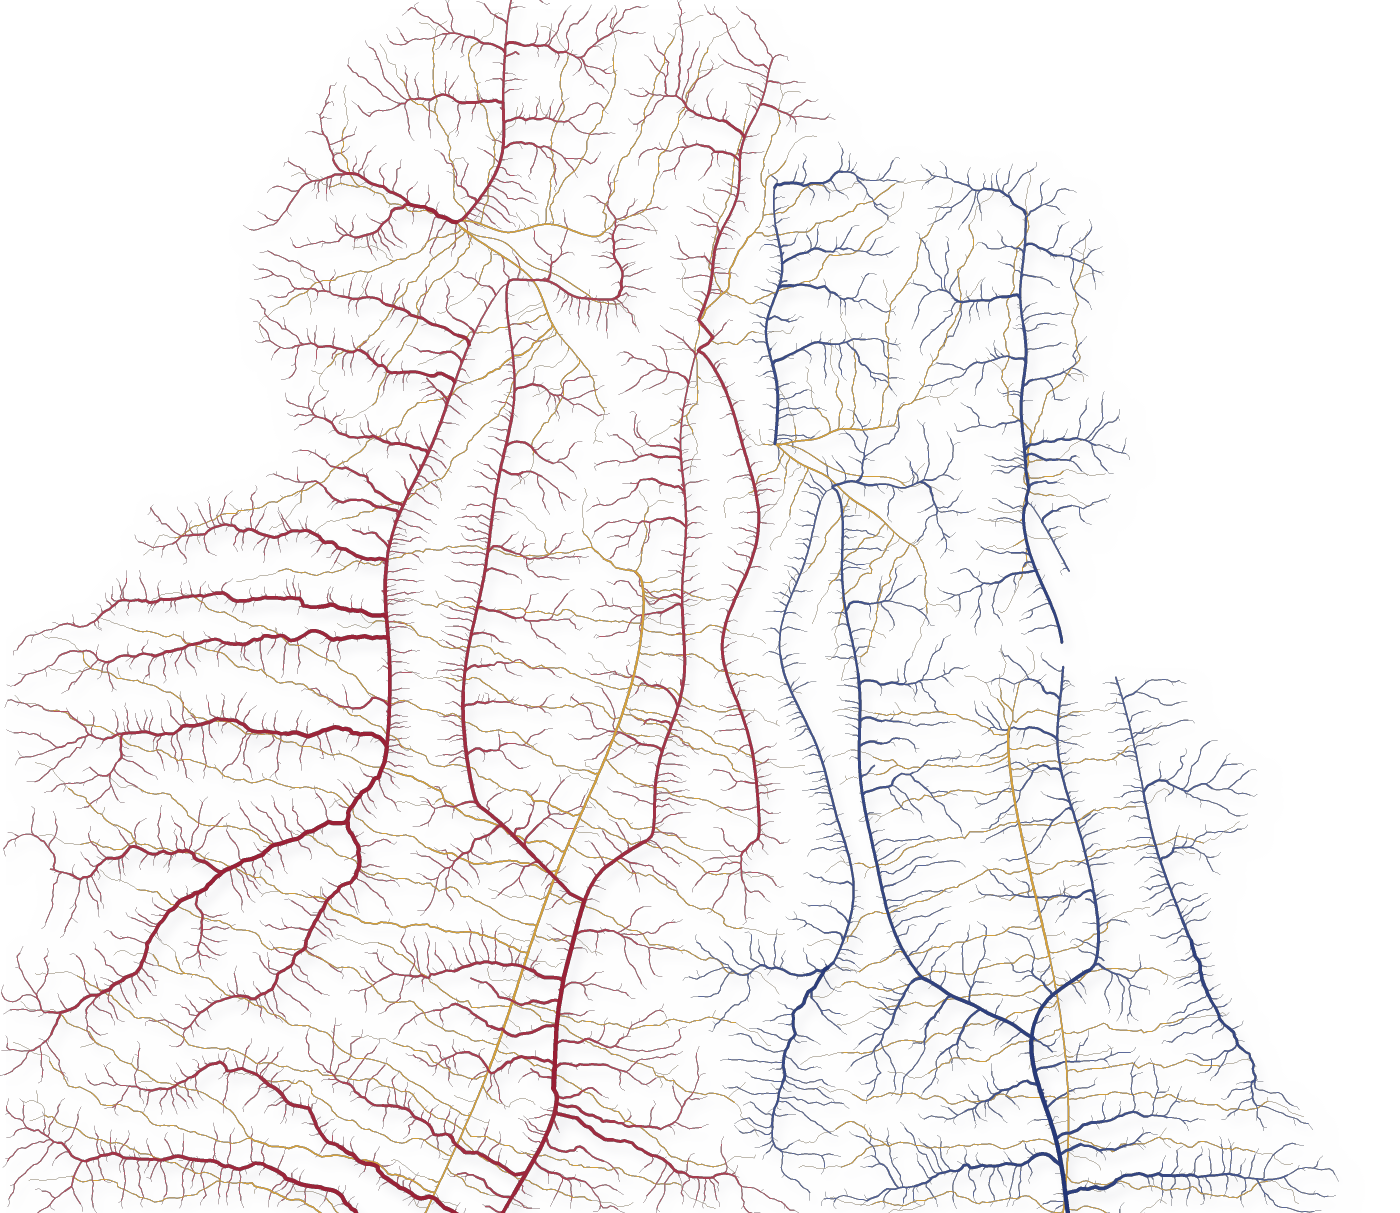
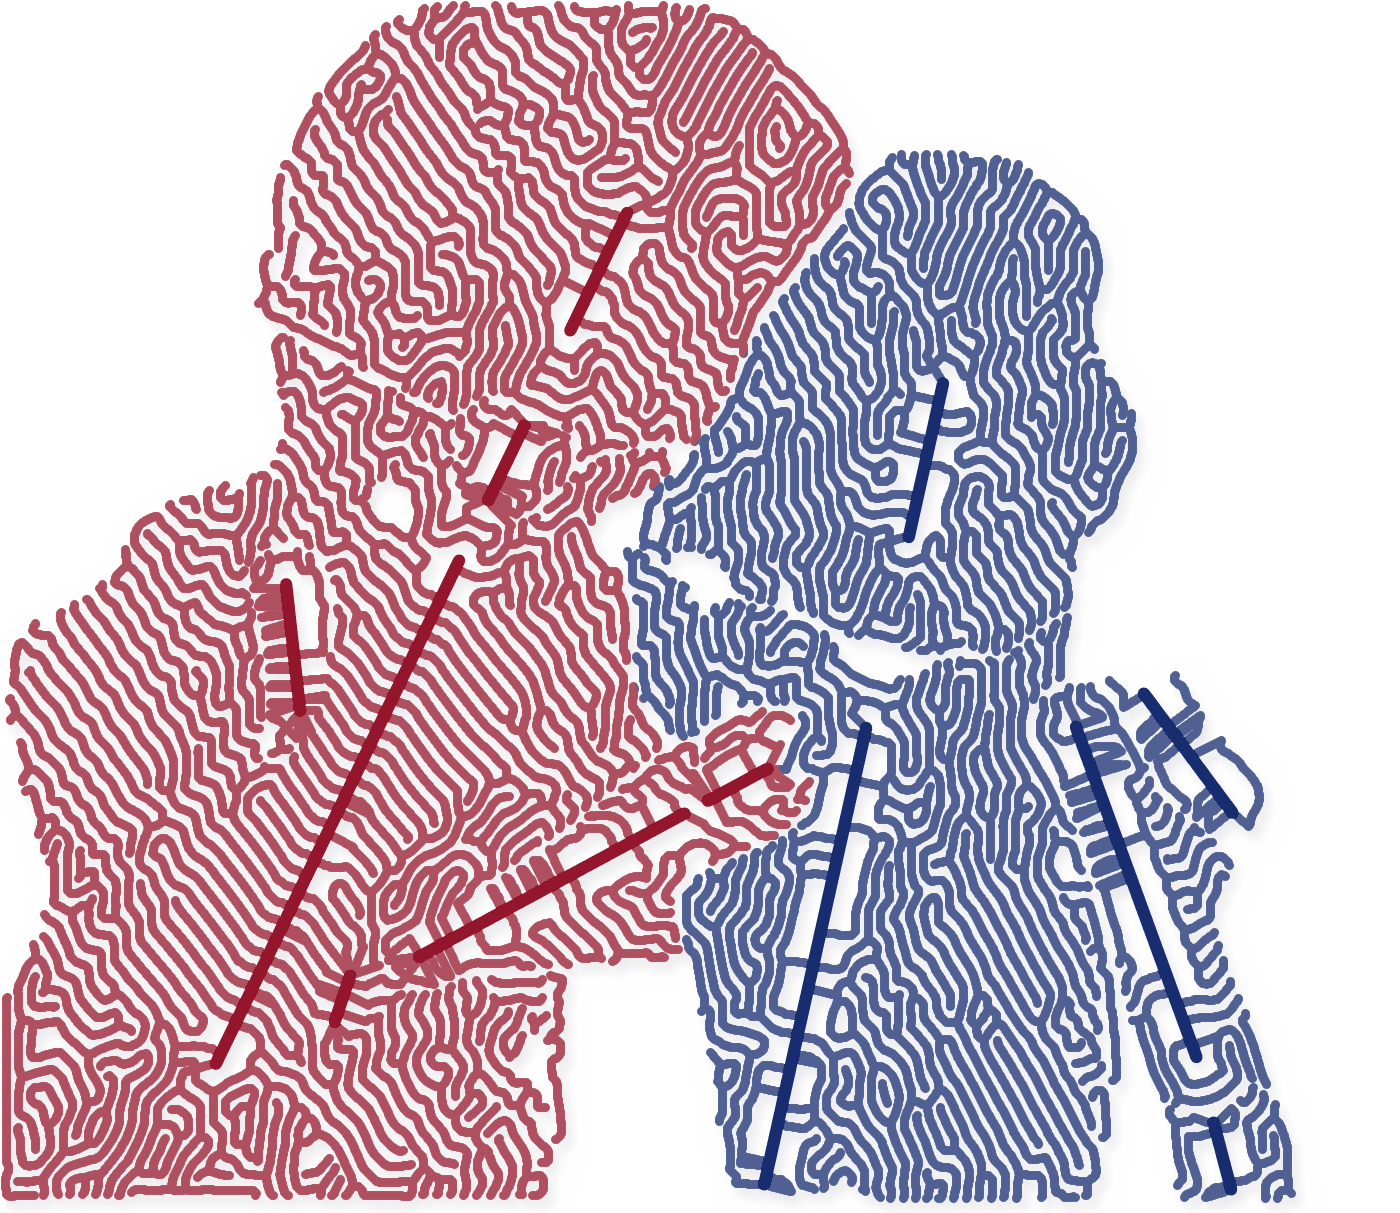
Veins from a 3D capsule blockout and a reaction-diffusion labyrinth
Each person is blocked out as capsules from YOLO11 pose, z-buffered
inside their YOLO11 instance mask so only camera-facing parts are used.
Centre veins follow each visible part's axis; child veins grow from them
as an anisotropic Gray-Scott labyrinth and are redrawn at half the grown
period, so veins and gaps are equal width. Centre veins are 30% wider.

Claude-Session: https://claude.ai/code/session_01CeAHDKGgDZ8ZSsn8HkCecd

diff --git a/tools/veins.py b/tools/veins.py
@@ -80,7 +80,7 @@ def perceive(models, bgr):
     if rs.masks is None:
         return np.full((h, w), -1, np.int32), []
     masks = [m > 0.5 for m in rs.masks.data.cpu().numpy()]
-    masks = [m for m in masks if m.sum() > 0.02 * m.size]
+    masks = [fill_holes(m) for m in masks if m.sum() > 0.02 * m.size]
     if not masks:
         return np.full((h, w), -1, np.int32), []
     # where masks overlap, a pixel goes to the mask it sits deepest inside
@@ -103,6 +103,16 @@ def perceive(models, bgr):
         score[i, :] = 0
         score[:, j] = 0
     return label, owner
+
+
+def fill_holes(mask, frac=0.03):
+    """Fill holes in a person mask, except big ones (real gaps such as the space inside a hug)."""
+    holes = ndimage.binary_fill_holes(mask) & ~mask
+    lab, n = ndimage.label(holes)
+    if n:
+        sizes = ndimage.sum(holes, lab, range(1, n + 1))
+        mask = mask | np.isin(lab, 1 + np.nonzero(sizes < frac * mask.size)[0])
+    return mask
 
 
 def clean_labels(label, n):

diff --git a/README.md b/README.md
@@ -40,37 +40,50 @@ The IDC images come from TCIA collections CMB-PCA, CMB-MML, CMB-LCA and VAREPOP-
 
 # Embrace veins
 
-Traces people hugging as floating veins and nerves on a white background.
+Traces people hugging as floating veins on a white background. Each body is blocked out in 3D to find the centre line of every limb. A centre vein runs down that line, and a reaction-diffusion labyrinth of child veins branches off it to fill the form. Only the parts facing the camera are used.
 
 ![veins](out/veins/f14f17cd97f06d27.png)
 
-| | |
+| photo → veins | 3D blockout and visible parts |
 |---|---|
-| ![](out/veins/1ca2486498488b59_pair.jpg) | ![](out/veins/949142002afa77e1_pair.jpg) |
-| ![](out/veins/e881775b897cafa8_pair.jpg) | ![](out/veins/bc1dfc4050f7c681_pair.jpg) |
+| ![](out/veins/f14f17cd97f06d27_pair.jpg) | ![](out/veins/f14f17cd97f06d27_blockout.jpg) |
+| ![](out/veins/1ca2486498488b59_pair.jpg) | ![](out/veins/1ca2486498488b59_blockout.jpg) |
+| ![](out/veins/949142002afa77e1_pair.jpg) | ![](out/veins/949142002afa77e1_blockout.jpg) |
 
 ```sh
-pip install mediapipe opencv-python-headless numpy scipy
-make hugs    # download the photos and MediaPipe models into data/
-make veins   # write out/veins/<id>.png and <id>_pair.jpg
+pip install ultralytics opencv-python-headless numpy scipy scikit-image
+make hugs    # download the photos and YOLO11 weights into data/
+make veins   # write out/veins/<id>.png, <id>_pair.jpg and <id>_blockout.jpg
 ```
 
-On a bare Linux box MediaPipe also needs `libegl1` and `libgles2`.
+The labyrinth runs on the CPU and takes about 2 to 6 minutes per photo.
 
 ## How it works
 
 `tools/veins.py`:
 
-1. **Silhouette.** MediaPipe's multiclass selfie segmenter masks each person's hair, skin and clothes.
-2. **People.** Each face the BlazeFace detector finds counts as one person. The pose landmarker often merges two hugging bodies into one skeleton, so a pose is used only when its nose falls on a detected face and its shoulders fit that face's size. Any other face gets a head-and-shoulders pose estimated from its eyes, mouth and ears.
-3. **Named vessels.** The landmarks set the paths of the main veins: superior and inferior vena cava, internal and external jugular, subclavian and axillary, cephalic, basilic, median cubital, iliac, femoral, great and small saphenous, facial and superficial temporal. They also set the main nerves: spinal cord, median, ulnar, radial, sciatic, femoral, tibial and facial. Each path is bent slightly with low-frequency noise so it doesn't look ruler-drawn.
-4. **Branching.** Space colonisation grows from those trunks in two passes, constrained to the silhouette. A coarse pass lays long tributaries and a fine pass fills in the twigs. Extra attractors along the outline make the edge of the body readable. Nerves grow as a sparser web.
-5. **Width.** Each segment's width follows Murray's law, scaling with the number of branch tips it drains.
-6. **Drawing.** Each person's veins get their own colour, so you can see where the two networks meet. Nerves are gold. Lines are drawn at 3× supersampling with a soft drop shadow, so they appear to float.
+1. **People.** YOLO11 instance segmentation gives one mask per person. YOLO11 pose gives 17 keypoints per person, and each pose goes to the mask that holds most of its keypoints. Pose and segmentation both hold up far better on hugs than MediaPipe did.
+2. **3D blockout.** Each person is built from capsules: head, neck, a torso made of three capsules side by side, upper arms, forearms, hands, thighs and shins. Radii are set from body proportions relative to the shoulder width. A part's depth comes from how confidently its joints were seen: YOLO reports occluded joints with low confidence, so those parts sit further back.
+3. **Visible parts only.** The capsules are rasterised into a z-buffer inside each person's mask, and each pixel keeps only the frontmost part. Where the other person is in front, their mask wins. Hidden stretches of a limb, such as an arm wrapped behind a back, are never used. In the blockout images, white outlines show the capsules, colours show the visible part map, and red lines show the centre veins.
+4. **Centre veins.** Each part's axis (its centre-of-mass line) is kept only where that part is visible. A visible piece the axis never crosses gets its principal axis instead.
+5. **Child veins.** A Gray-Scott reaction-diffusion labyrinth (feed 0.029, kill 0.057) grows from the centre veins:
+   - Thin walls between parts keep each form separate.
+   - The body outline is a no-flux boundary, so it never starts stripes of its own.
+   - Diffusion is stronger along each part's axis. This turns the stripes across the axis, so they branch sideways off the centre vein.
+   - Short stubs along each centre vein start the branches off at right angles.
+6. **Equal widths.** The labyrinth is thinned to single lines. The period it actually grew is measured as body area divided by total line length. Every line is redrawn at exactly half that period, so each child vein is as wide as the gap beside it. Centre veins are drawn 30% wider. Child veins that end beside a centre vein, plus short side branches alternating left and right, tie the labyrinth onto it.
+7. **Drawing.** Each person gets their own colour. Centre veins are full strength and child veins slightly paler. A soft drop shadow makes the veins look like they float.
 
-`--seed N` gives a different growth and `--no-nerves` draws the veins only. To use other photos, pass their paths: `python3 tools/veins.py my.jpg`.
+Options:
+- `--period N` sets the labyrinth spacing in px at the 1400 px working size (default 18); veins are half this wide.
+- `--aniso A` sets how strongly the branches turn across each limb (0 gives a plain labyrinth; default 0.4).
+- `--debug` also writes the blockout image.
+
+Limitations:
+- The blockout is only as good as the pose. Where YOLO misses a limb, that area becomes one undivided form.
+- In `e881775b897cafa8`, YOLO merges the two men into one mask and leaves out the front man's face.
 
 ## Credits
 
 All photos are from the [Open Images](https://storage.googleapis.com/openimages/web/index.html) V7 validation set, tagged "Hug" by human raters, and licensed CC BY 2.0 on Flickr:
-sharona and david by SharonaGott · Darryl Stephens and Peter Paige by Greg Hernandez · bf friendship by mat's eye · hug hug kiss kiss by llinddsayy · Untitled by monicasecas · Picture_343 by Patty · Brian and Me by LeAnn E. Crowe · Mom & Son by Gabriela Pinto. Links are in `tools/fetch_hugs.py`.
+sharona and david by SharonaGott · Darryl Stephens and Peter Paige by Greg Hernandez · bf friendship by mat's eye · hug hug kiss kiss by llinddsayy · Untitled by monicasecas · Picture_343 by Patty · Brian and Me by LeAnn E. Crowe · Mom & Son by Gabriela Pinto. Links are in `tools/fetch_hugs.py`. The YOLO11 models are by Ultralytics (AGPL-3.0).
